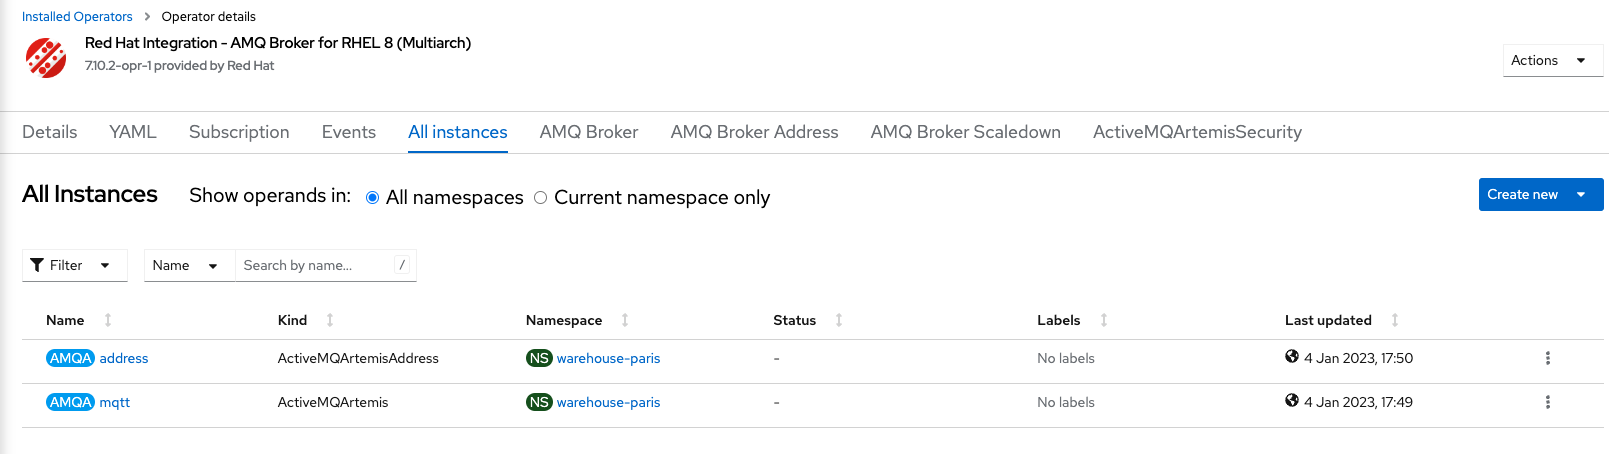
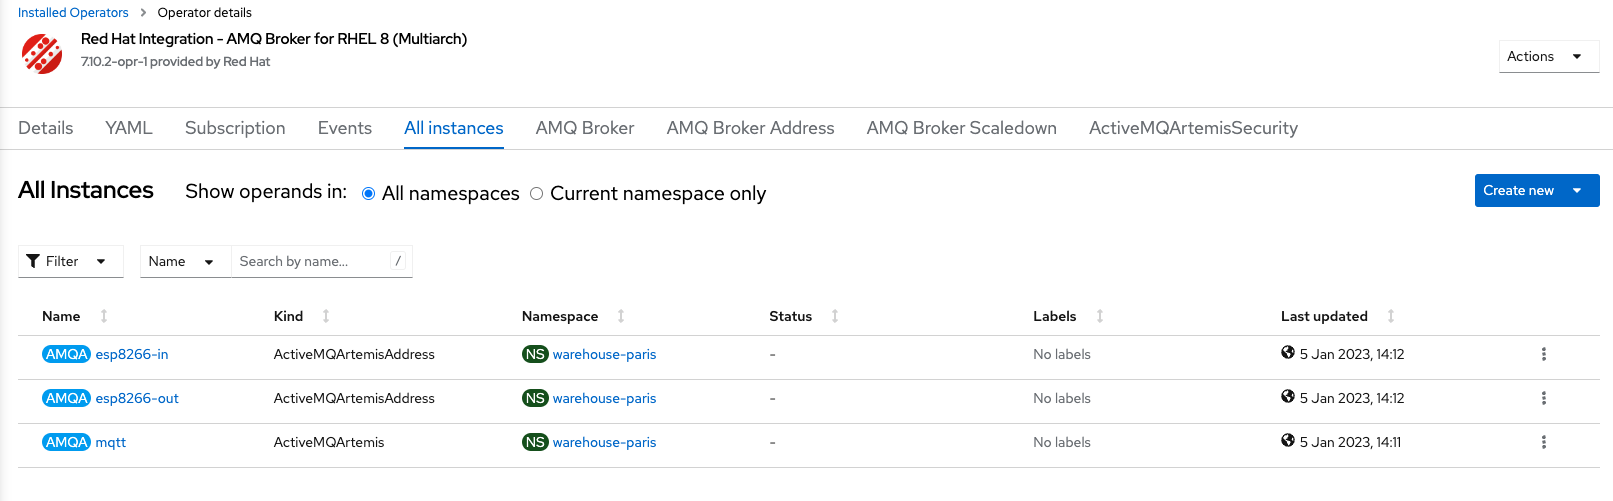
mqtt topics

diff --git a/content/mqtt-broker/_index.md b/content/mqtt-broker/_index.md
@@ -110,19 +110,22 @@ spec:
 mosquitto_sub -t <MQTT addressName> -h '<AWS LB address for MQTT service>' -p <port> -u <MQTT user> -P <MQTT password>
 
 #Example
-#mosquitto_sub -t esp32 -h 'a32ba3beef5cf47ba907ca93f911bd94-62424187.eu-west-1.elb.amazonaws.com' -p 1883 -u admin -P public
+#mosquitto_sub -t esp8266-in -h 'a32ba3beef5cf47ba907ca93f911bd94-62424187.eu-west-1.elb.amazonaws.com' -p 1883 -u admin -P public
 ```
 
 
 2. Push new messages to your MQTT Broker
 
 ```sh
-for i in {1..200}; do mosquitto_pub -t <MQTT addressName> -h '<AWS LB address for MQTT service>' -p <port> -u <MQTT user> -P <MQTT password> -m message$i; done
+for i in {1..200}; do mosquitto_pub -t <MQTT addressName> -h '<AWS LB address for MQTT service>' -p <port> -u <MQTT user> -P <MQTT password> -m in$i; done
 
 #Example
-#for i in {1..200}; do mosquitto_pub -t esp32 -h 'aa47f83e624da4e639f5be6109757355-1944403232.eu-west-1.elb.amazonaws.com' -p 1883 -u admin -P public -m message$i; done
+#for i in {1..200}; do mosquitto_pub -t esp8266-in -h 'aa47f83e624da4e639f5be6109757355-1944403232.eu-west-1.elb.amazonaws.com' -p 1883 -u admin -P public -m in$i; done
 ```
 
 
 
-![MQTT test](/images/mqtt-sub.png)
+![MQTT topi IN](/images/mqtt-sub-in.png)
+
+
+![MQTT topi OUT](/images/mqtt-sub-out.png)
